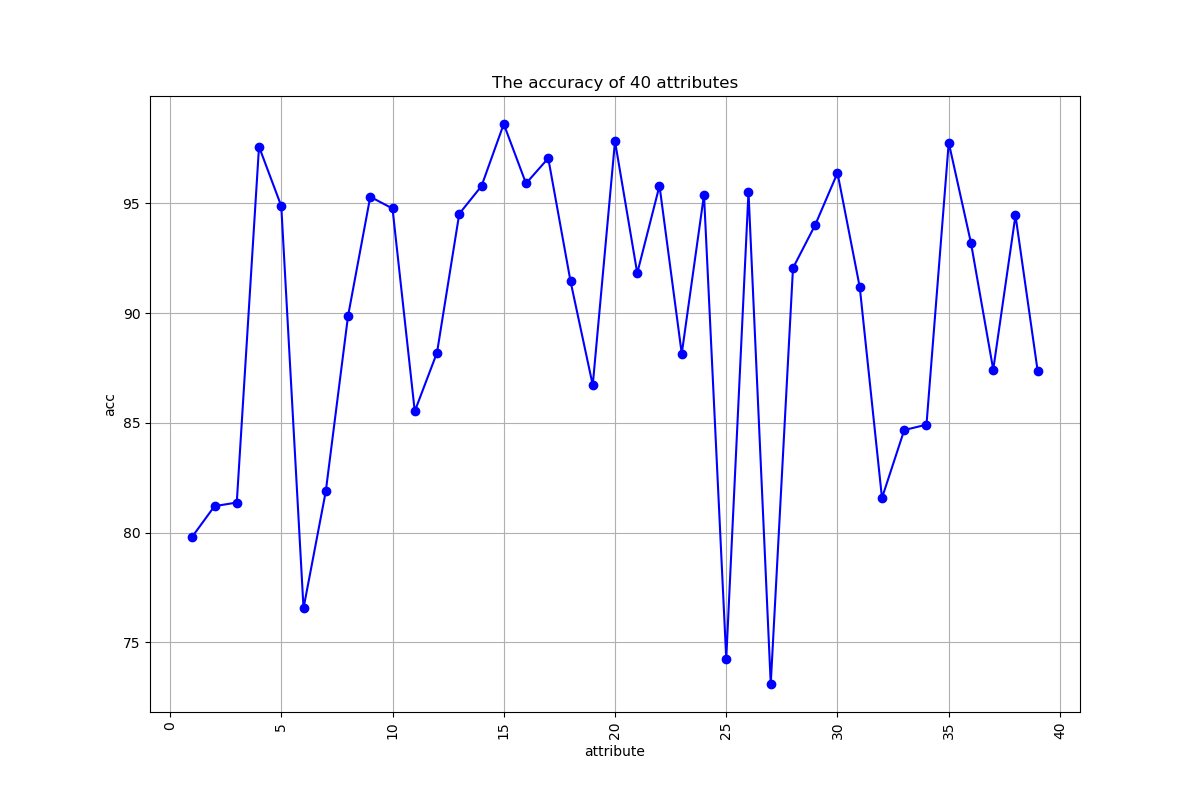
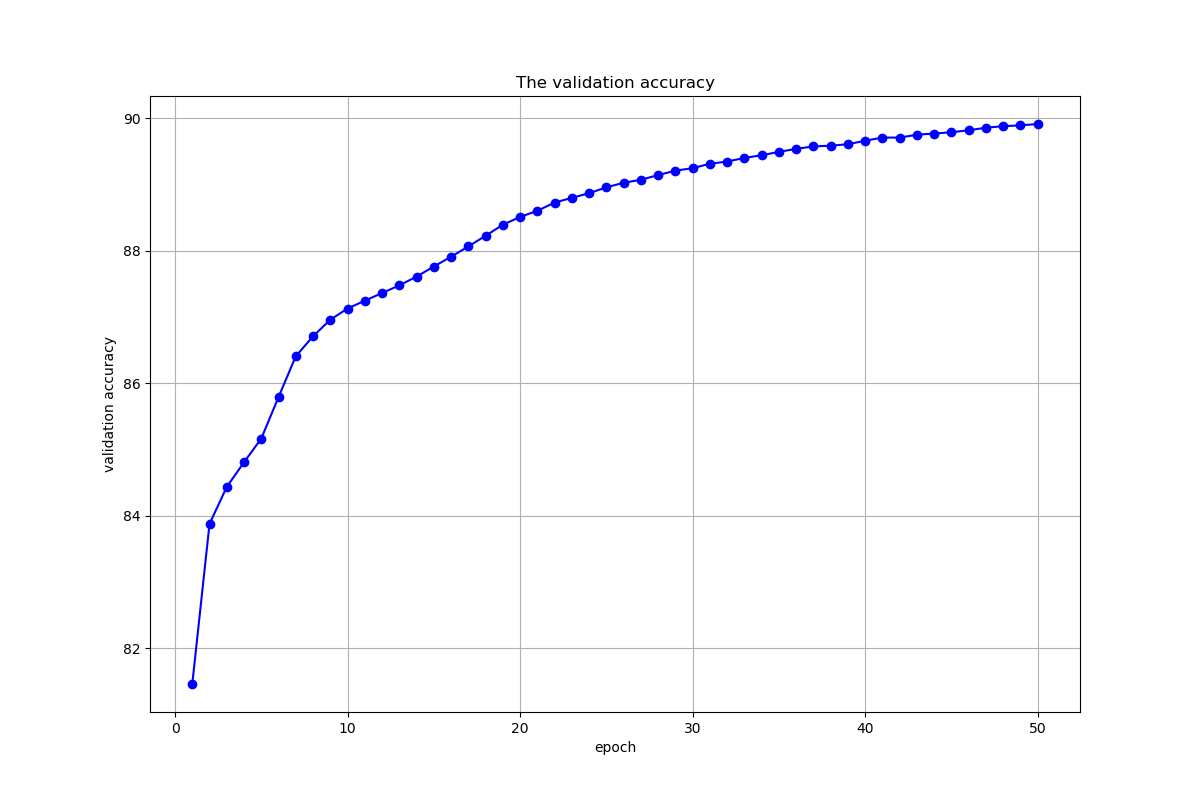
finetune existing models.

diff --git a/solver.py b/solver.py
@@ -74,13 +74,13 @@ class Solver(object):
         if mode == 'train':
             transform.append(transforms.RandomHorizontalFlip())
             transform.append(transforms.RandomRotation(degrees=30))  # 旋转30度
-            transform.append(RandomBrightness())
-            transform.append(RandomContrast())
-            transform.append(RandomHue())
-            transform.append(RandomSaturation())
+            # transform.append(RandomBrightness())
+            # transform.append(RandomContrast())
+            # transform.append(RandomHue())
+            # transform.append(RandomSaturation())
         # the advising transforms way in imagenet
         # the input image should be resized as 224 * 224 for resnet.
-        # transform.append(transforms.Resize(size=(224, 224))) test no resize operation.
+        transform.append(transforms.Resize(size=(224, 224))) # test no resize operation.
         transform.append(transforms.ToTensor())
         transform.append(transforms.Normalize(mean=[0.485, 0.456, 0.406],
                                  std=[0.229, 0.224, 0.225]))
@@ -103,7 +103,6 @@ class Solver(object):
         return focal_loss_func(inputs, targets)
 
     def load_model_dict(self, model_state_dict_path):
-        self.model = None
         self.model_save_path = model_state_dict_path
         self.model.load_state_dict(torch.load(model_state_dict_path))
         print("The model has loaded !")
@@ -280,7 +279,7 @@ class Solver(object):
             print("The running time since the start is : {} ".format(utils.timeSince(self.start_time)))
             average_acc_dict, confusion_matrix_dict, mean_attributes_acc = self.evaluate("validate")
             print("{}/{} Epoch: in evaluating process average accuracy:{}".format(epoch + 1, self.epoches, average_acc_dict))
-            print("{}/{} Epoch: the mean accuracy is {}".format(mean_attributes_acc))
+            print("{}/{} Epoch: the mean accuracy is {}".format(epoch+1, self.epoches, mean_attributes_acc))
             print("The running time since the start is : {} ".format(utils.timeSince(self.start_time)))
             train_losses.append(running_loss)
             average_acc = 0.0
@@ -297,7 +296,6 @@ class Solver(object):
                 best_model_wts = copy.deepcopy(self.model.state_dict())
                 confusion_matrix_df = pd.DataFrame(confusion_matrix_dict, index=self.selected_attrs)
 
-
         # save the accuracy in files
         eval_acc_csv = pd.DataFrame(eval_acc_dict, index = [i for i in range(self.epoches)]).T 
         eval_acc_csv.to_csv("./result/" + self.exp_version + '-' +  self.model_type + "-eval_accuracy"+ ".csv");
@@ -313,7 +311,7 @@ class Solver(object):
         torch.save(best_model_wts, self.model_save_path)
 
         # test the model with test dataset.
-        test_acc_dict, confusion_matrix_dict = self.evaluate("test")
+        test_acc_dict, confusion_matrix_dict, mean_attributes_acc = self.evaluate("test")
         test_acc_csv = pd.DataFrame(test_acc_dict, index=['accuracy'])
         test_acc_csv.to_csv("./result/" + self.exp_version + '-' + self.model_type + "-test_accuracy" + '.csv')
         test_confusion_matrix_csv = pd.DataFrame(confusion_matrix_dict, index=self.selected_attrs)
@@ -340,7 +338,7 @@ class Solver(object):
 
 
     def test_speed(self, image_num=256):
-        self.model.eavl()
+        self.model.evall()
         with torch.no_grad():
             self.test_loader = get_loader(image_dir = self.image_dir, 
                                     attr_path = self.attr_path, 

diff --git a/data_analysis/exp_result_analysis.py b/data_analysis/exp_result_analysis.py
@@ -2,28 +2,22 @@ import pandas as pd
 import matplotlib.pyplot as plt
 import numpy as np
 
-def show_eval_accuracy(acc_df, save_file_name):
-    # get attributes
-    attrs_list = acc_df.columns[1:]
-    # print(attrs_list)
-    # get accuracy
-    acc_list = acc_df.iloc[-1, 1:]
-    # print(acc_list)
+def show_eval_accuracy(eval_df, save_path):
+    mean_acc_list = eval_df.describe().loc['mean'].tolist()
+    epoch_list = [i + 1 for i in range(len(mean_acc_list))]
     plt.figure(figsize=(12, 8))
-    plt.plot(attrs_list, acc_list, marker='o', color='b')
-    plt.xlabel(xlabel='attribute')
-    plt.ylabel(ylabel='acc')
-    plt.title(label='The accuracy of 40 attributes')
-    plt.xticks(rotation = 90)
+    plt.plot(epoch_list, mean_acc_list, marker='o', color='b')
+    plt.xlabel(xlabel='epoch')
+    plt.ylabel(ylabel='validation accuracy')
+    plt.title(label='The validation accuracy')
+    plt.xticks(rotation = 0)
     plt.grid(True)
-    plt.savefig(save_file_name)
-    # plt.show()
-    return sum(acc_list)/len(acc_list)
+    plt.savefig(save_path)
 
 def show_test_accuracy(acc_df, save_file_name):
-    attrs_list = acc_df.columns[1:]
-    # print(acc_df.iloc[0, 1:].tolist())
     acc_list = acc_df.iloc[0, 1:].tolist()
+    attrs_list = acc_df.columns[1:].tolist()
+
     plt.figure(figsize=(12, 8))
     plt.plot(attrs_list, acc_list, marker='o', color='b')
     plt.xlabel(xlabel='attribute')
@@ -51,25 +45,23 @@ def show_loss(loss_df, save_file_name):
 
 
 if __name__ == "__main__":
-    acc_csv = '../result/v6-gc_resnet101-eval_accuracy.csv'
-    acc_df = pd.read_csv(acc_csv)
-    show_eval_accuracy(acc_df.T, acc_csv.replace('.csv', '.png'))
-    print(acc_df.describe())
-   
-    test_acc_csv = '../result/v6-gc_resnet101-test_accuracy.csv'
+    eval_acc_csv = '../result/v5.1-gc_resnet101-eval_accuracy.csv'
+    eval_acc_df = pd.read_csv(eval_acc_csv)
+    print(eval_acc_df)
+    show_eval_accuracy(eval_acc_df, eval_acc_csv.replace('.csv', '.png'))
+    
+    # print("ok!")
+    test_acc_csv = '../result/v5.1-gc_resnet101-test_accuracy.csv'
     acc_df = pd.read_csv(test_acc_csv)
-    aver_acc = show_test_accuracy(acc_df, test_acc_csv.replace('.csv', '.png'))
+    acc = show_test_accuracy(acc_df, test_acc_csv.replace('.csv', '.png'))
+    print("average accuracy: {}".format(acc))
+    # aver_acc = show_test_accuracy(acc_df, test_acc_csv.replace('.csv', '.png'))
 
-    loss_csv = '../result/v6-gc_resnet101-losses.csv'
+    loss_csv = '../result/v5.1-gc_resnet101-losses.csv'
     loss_df = pd.read_csv(loss_csv)
     show_loss(loss_df, loss_csv.replace('.csv', '.png'))
 
-    matrix = '../result/v6-gc_resnet101-confusion_matrix.csv'
-    matrix_df = pd.read_csv(matrix)
-    print(matrix_df)
-    print("Average accuracy: {} ".format(aver_acc))
-    precision = matrix_df['TP'].mean() / (matrix_df['TP'].mean() + matrix_df['FP'].mean())
-    recall = matrix_df['TP'].mean() / (matrix_df['TP'].mean() + matrix_df['FN'].mean())
-    print("macro precion:{}".format(precision))
-    print('macro recall:{}'.format(recall))
-    print("macro F1:{}".format(2*precision*recall / (precision + recall)))
+    # matrix = '../result/v7-Resnet152-confusion_matrix.csv'
+    # matrix_df = pd.read_csv(matrix)
+    # print(matrix_df)
+    # print("Average accuracy: {} ".format(aver_acc))

diff --git a/utils.py b/utils.py
@@ -6,6 +6,8 @@ from numpy import random
 import os
 import torch
 import cv2 
+import 
+
 def timeSince(since):
     """
     compute the training/evaluate time
@@ -40,3 +42,48 @@ def seed_everything(seed=1234):
     torch.manual_seed(seed)
     torch.cuda.manual_seed(seed)
     torch.backends.cudnn.deterministic = True
+
+def show_average_eval_acc(eval_df, save_path):
+    mean_acc_list = eval_df.describe().loc['mean'].tolist()
+    epoch_list = [i + 1 for i in range(len(mean_acc_list))]
+    plt.figure(figsize=(12, 8))
+    plt.plot(epoch_list, mean_acc_list, marker='o', color='b')
+    plt.xlabel(xlabel='epoch')
+    plt.ylabel(ylabel='validation accuracy')
+    plt.title(label='The validation loss')
+    plt.xticks(rotation = 0)
+    plt.grid(True)
+    plt.savefig(save_path)
+
+def show_loss(loss_df, save_path):
+    # get loss value
+    loss_list = loss_df.iloc[:, -1].tolist()
+    # get epoches
+    epoch_list = [i + 1 for i in range(len(loss_list))]
+
+    plt.figure(figsize=(12, 8))
+    plt.plot(epoch_list, loss_list, marker='o', color='b')
+    plt.xlabel(xlabel='epoch')
+    plt.ylabel(ylabel='loss')
+    plt.title(label='The traininng loss')
+    plt.xticks(rotation = 0)
+    plt.grid(True)
+    plt.savefig(save_path)
+
+def show_mean_test_acc(test_df, save_path):
+    
+    test_acc_list = test_df.loc['accuracy']
+    attr_list = test_df.columns.tolist()
+    plt.figure(figsize=(12, 8))
+    plt.plot(attrs_list, test_acc_list, marker='o', color='b')
+    plt.xlabel(xlabel='attribute')
+    plt.ylabel(ylabel='acc')
+    plt.title(label='The test accuracy of 40 attributes')
+    plt.xticks(rotation=90)
+    plt.grid(True)
+    plt.savefig(save_path)
+    
+    print("average test accuracy: {}".format(sum(test_acc_list)/len(test_acc_list))
+
+
+

diff --git a/README.md b/README.md
@@ -29,6 +29,7 @@ This repo is for the adavanced training on deeping learning with the purpose of 
 | Resnet101-v4 | 84.35| 59.97| 40.39| 53.06 |---|test on test dataset|  
 | GC_resnet101-v5 | 89.93| 77.18 |47.67 |57.40|---|test on test dataset|
 | SE_resnet101-v6 | 90.06 | 77.35 | 49.67 | 59.42 |---  | test on test dataset|
+| Resnet152-v7 | 88.72 | 74.64 | 43.81 | 54.78 | --- |
 
 More detailed data can be seen in folder [\result](https://github.com/JoshuaQYH/FaceAttr-Analysis/blob/master/result/).
 
@@ -53,7 +54,7 @@ Priority:
 Choice:
 
 - [ ] Visualization with [tensorboard](https://github.com/lanpa/tensorboardX) or [netron](https://github.com/lutzroeder/netron).
-- [ ] Parse the input script command.
+- [x] Parse the input script command.
 - [ ] video stream monitor[(picamera on Raspberry Pi)](https://github.com/waveform80/picamera) and transfer video frames.
 - [ ] upload image in html and return the analysis result.
 - [ ] Back end: [face detection](https://github.com/ageitgey/face_recognition) and real-time analysis.
